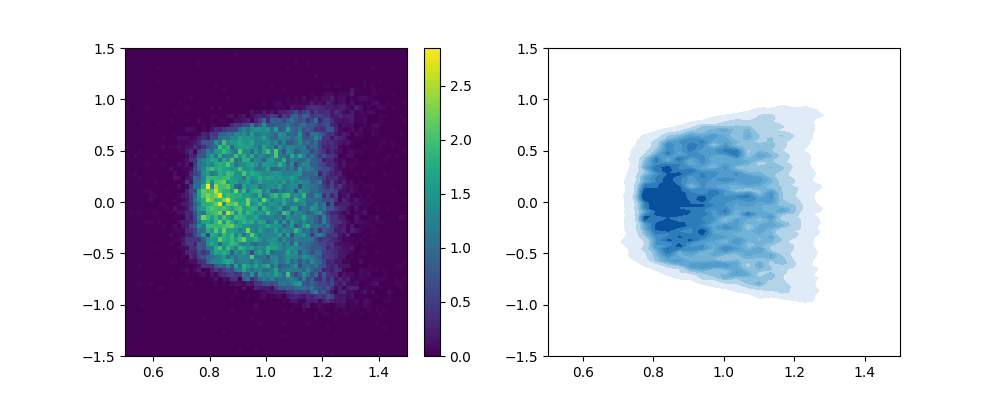
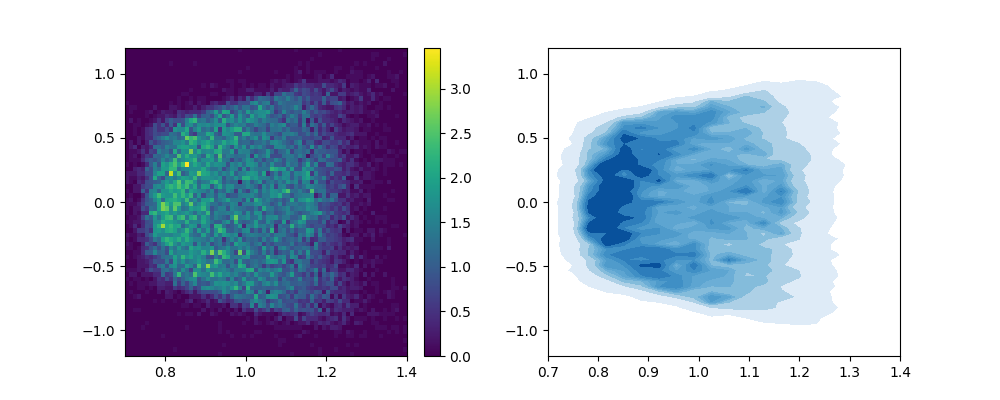
generic commit

diff --git a/scripts/transport/k_diffusion.py b/scripts/transport/k_diffusion.py
@@ -1070,7 +1070,7 @@ def test_panel(plot_steps = False, approx_path = False, N = 10000, test_name = '
             while done < 2:
                 try:
                     lv_exp(min(N,8000), exp_name=f'/{test_name}/lv_{i_str}', normal = True,
-                        approx_path = approx_path, n_transports = n_transports, N_plot= 500)
+                        approx_path = approx_path, n_transports = n_transports, N_plot= 30000)
                     done +=3
                 except torch._C._LinAlgError:
                     done += 1

diff --git a/scripts/transport/lk_sim.py b/scripts/transport/lk_sim.py
@@ -27,7 +27,7 @@ class DeterministicLotkaVolterra:
         # length of integration window
         self.T = T
         # observation parameters
-        self.obs_std = np.sqrt(0.1)
+        self.obs_std = np.sqrt(0.5)
 
     def sample_prior(self, N):
         # generate Normal samples
